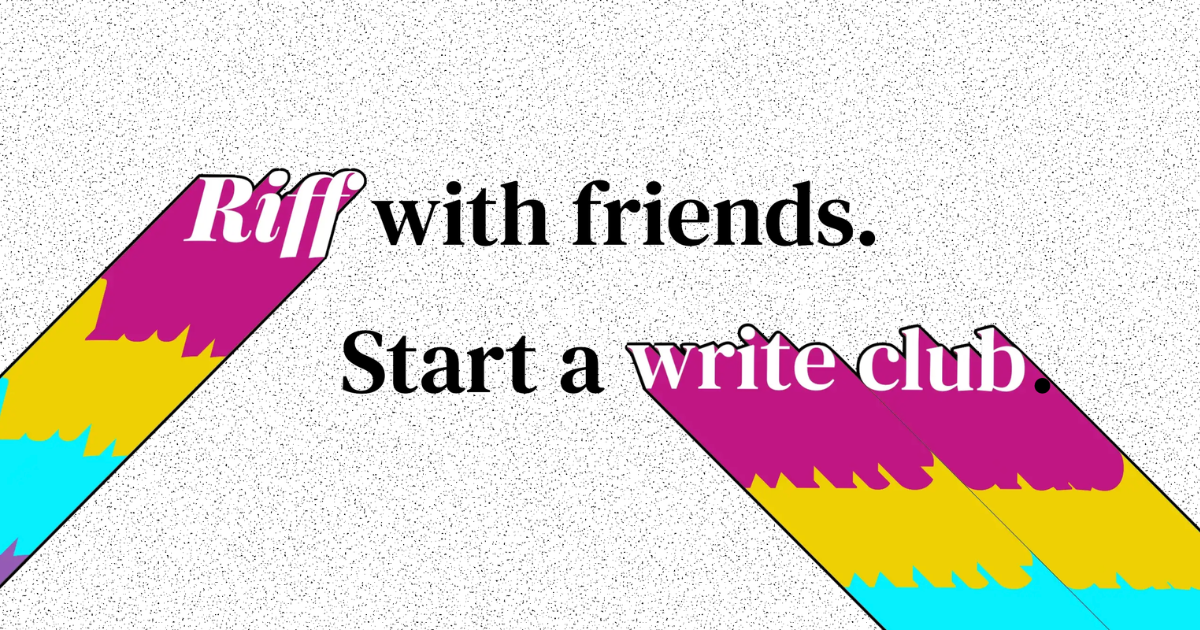
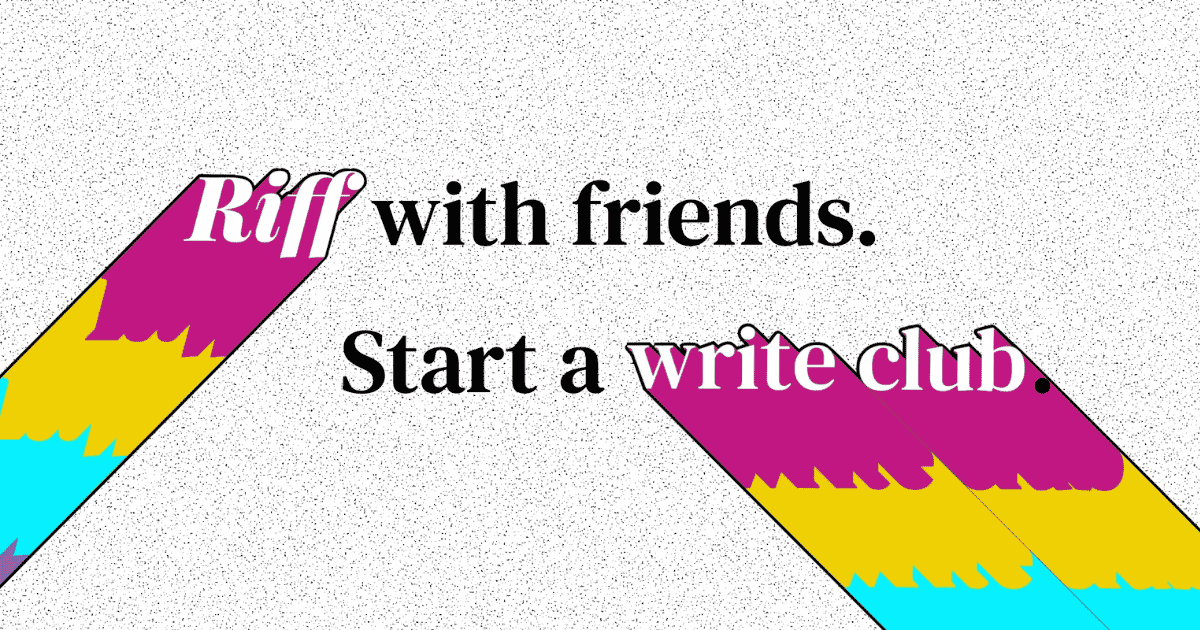
fix: compress OG image and scope metadataBase to environment

diff --git a/src/app/layout.tsx b/src/app/layout.tsx
@@ -43,7 +43,7 @@ export const metadata: Metadata = {
   },
   description:
     "Write clubs are the new book clubs. Riff is where friends can create private writing communities and read each other's writing on a consistent basis.",
-  metadataBase: new URL("https://letsriff.app"),
+  metadataBase: new URL(process.env.NEXTAUTH_URL ?? "https://letsriff.app"),
   openGraph: {
     title: "Riff",
     description: "Write with friends.",